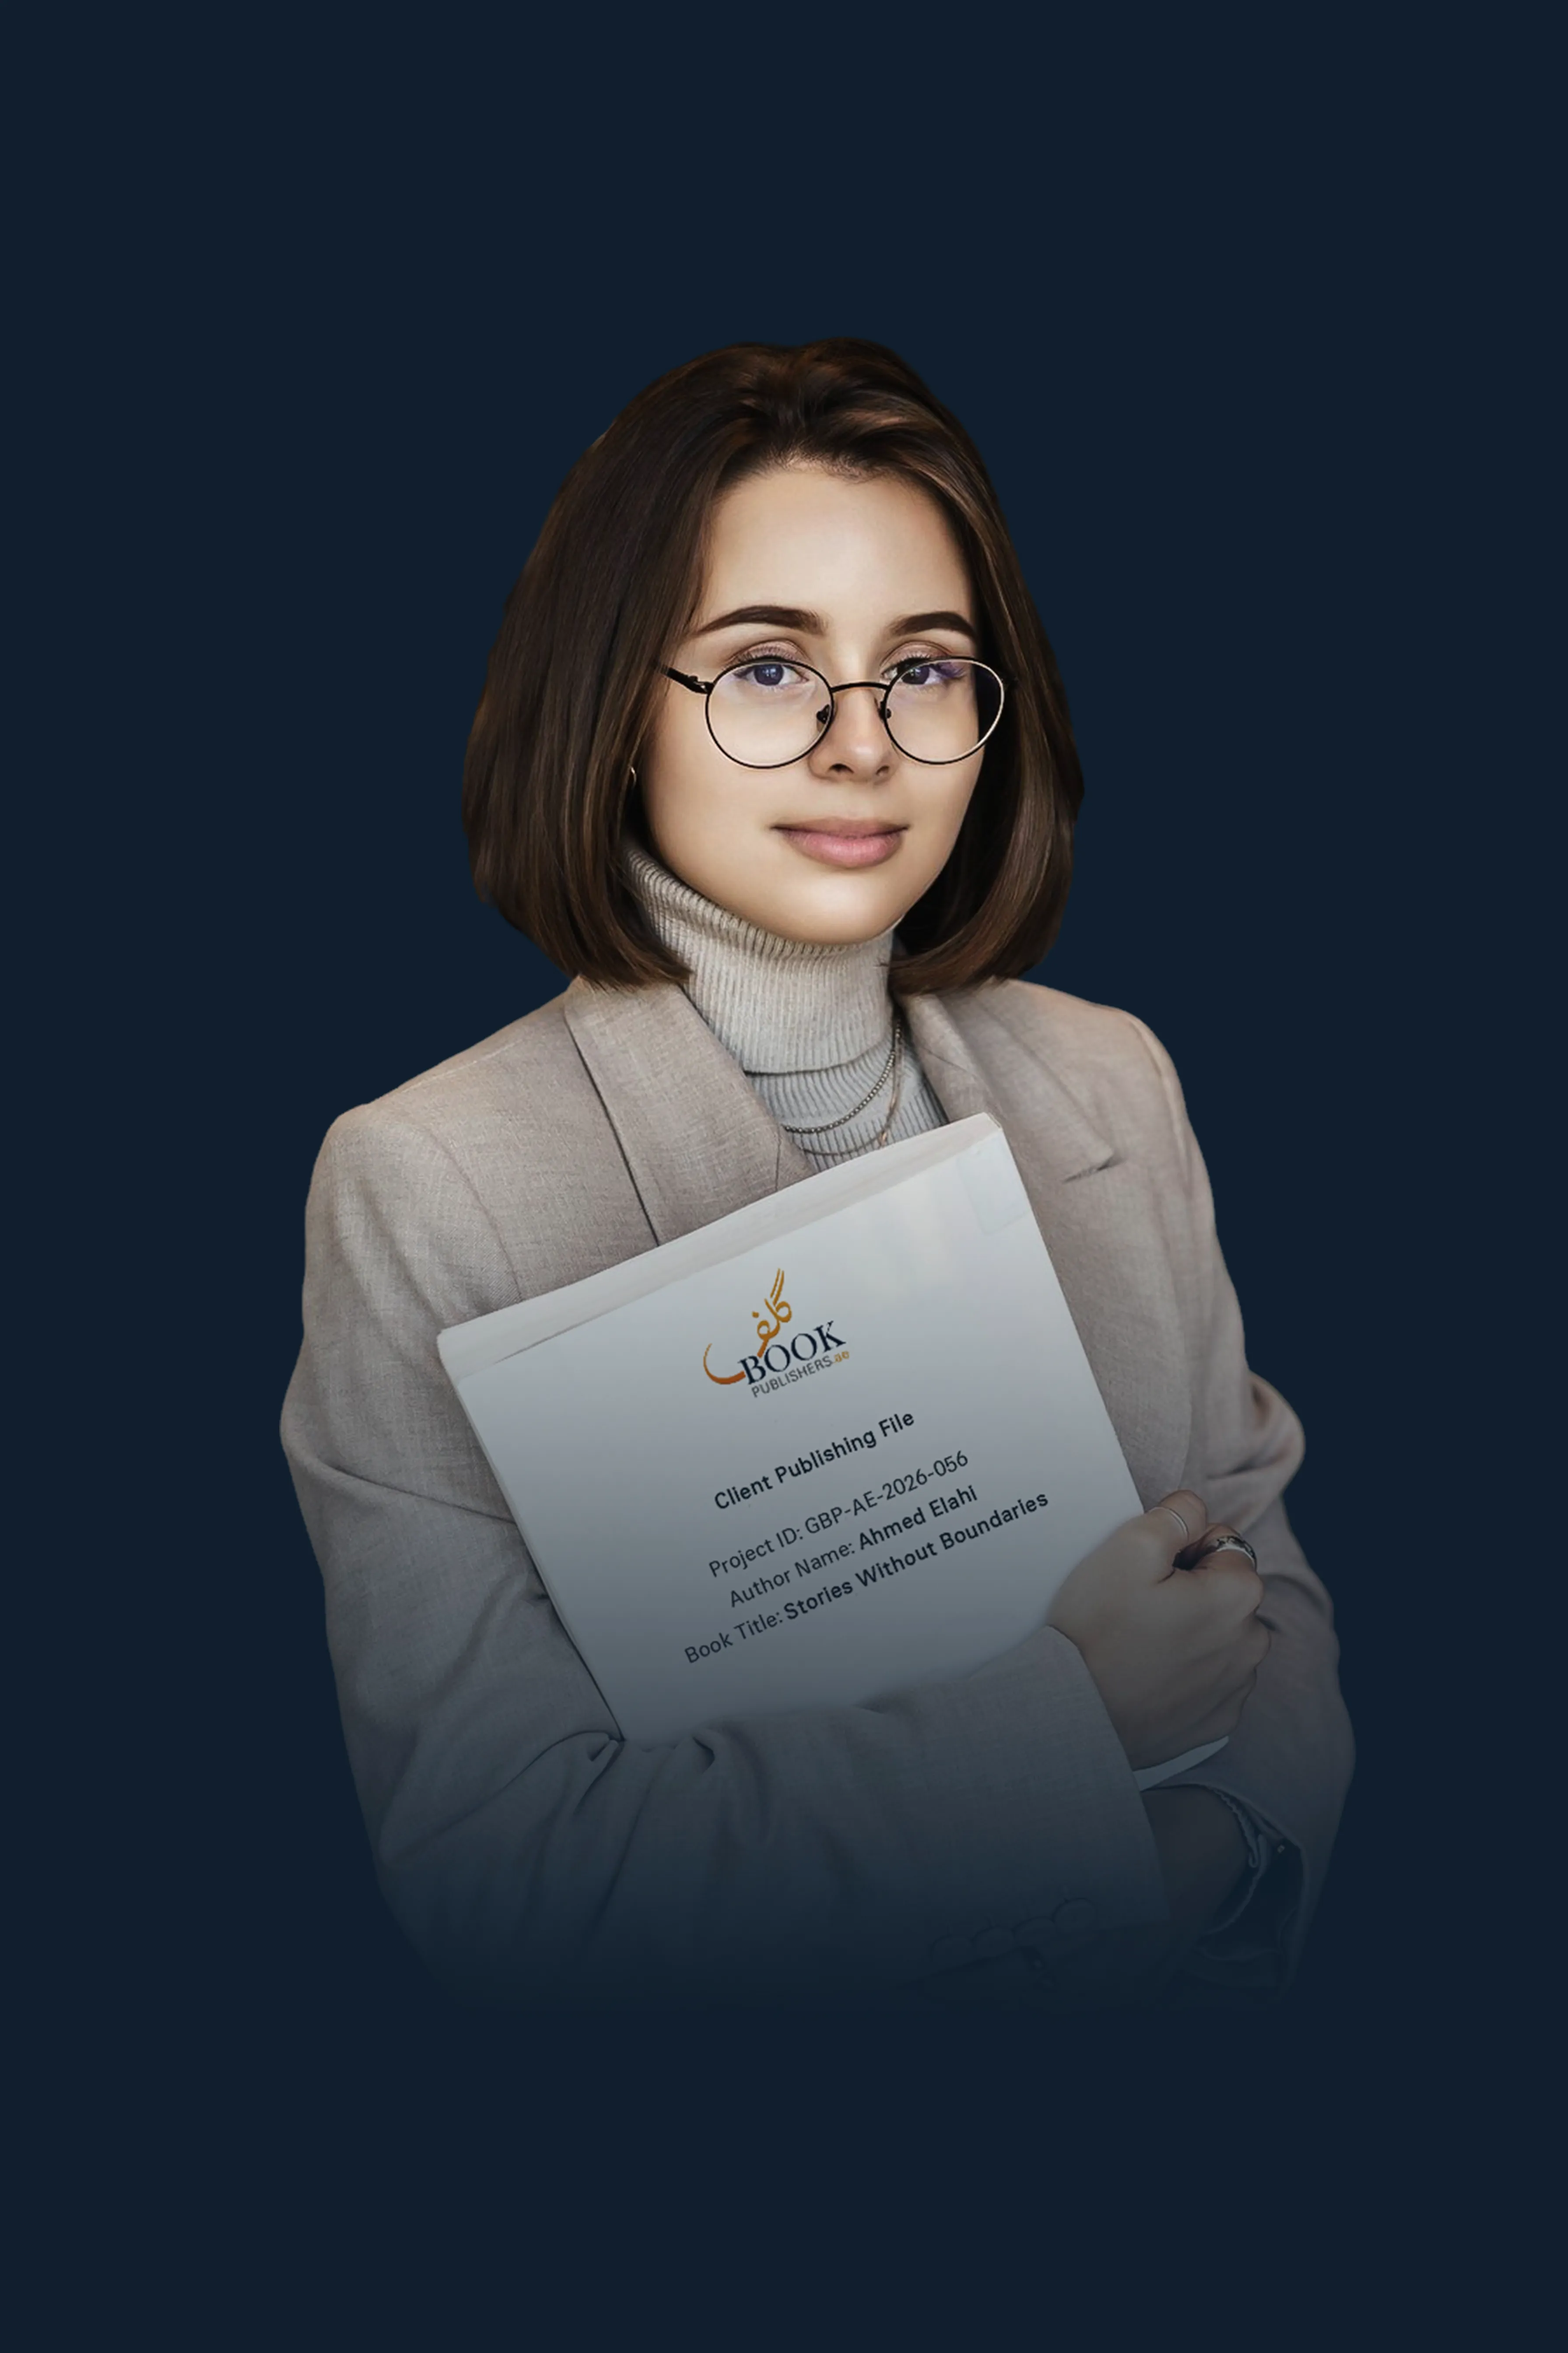
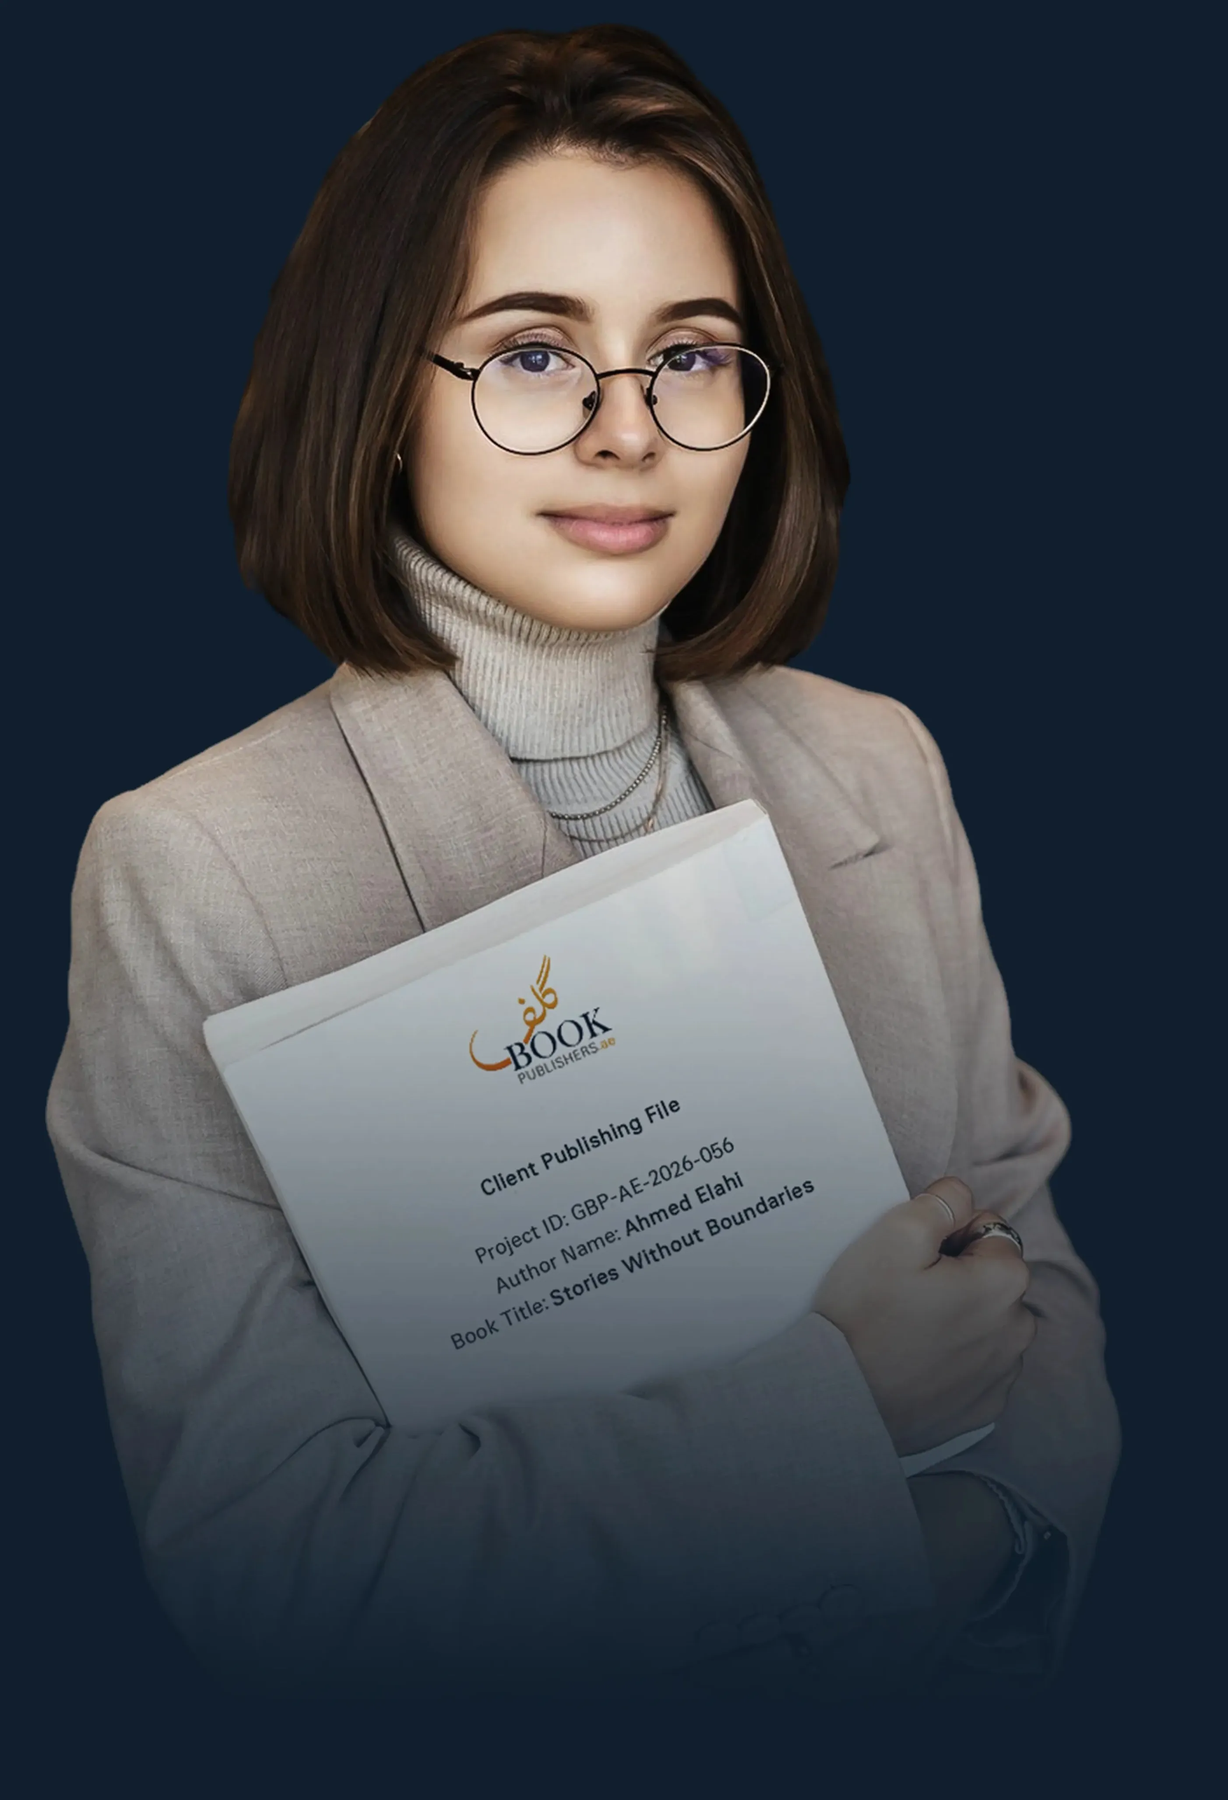
Add files via upload

diff --git a/index.html b/index.html
@@ -762,7 +762,7 @@ $(function(){
     <div class="home-consultant-container">
         <div class="home-consultant-row home-consultant-align-items-center">
             <div class="home-consultant-col-6 home-consultant-left">
-                <img src="images/logo-bunch-img.webp" alt="Get Amazon Store" title="Get Amazon Store" loading="lazy" class="home-consultant-image">
+                <img src="images/home-expanding-section.webp" alt="Get Amazon Store" title="Get Amazon Store" loading="lazy" class="home-consultant-image">
             </div>
             <div class="home-consultant-col-6 home-consultant-right">
                 <h2 class="home-consultant-title">

diff --git a/style.css b/style.css
@@ -1787,6 +1787,7 @@ header {
 .home-consultant-section {
     position: relative;
     padding: 30px 0;
+    background-color: #d6d6d6;
     z-index: 1;
 }
 
@@ -1796,7 +1797,6 @@ header {
     left: 0;
     width: 100%;
     height: 80%; 
-    background-color: #d6d6d6;
     z-index: -1;
 }
 
